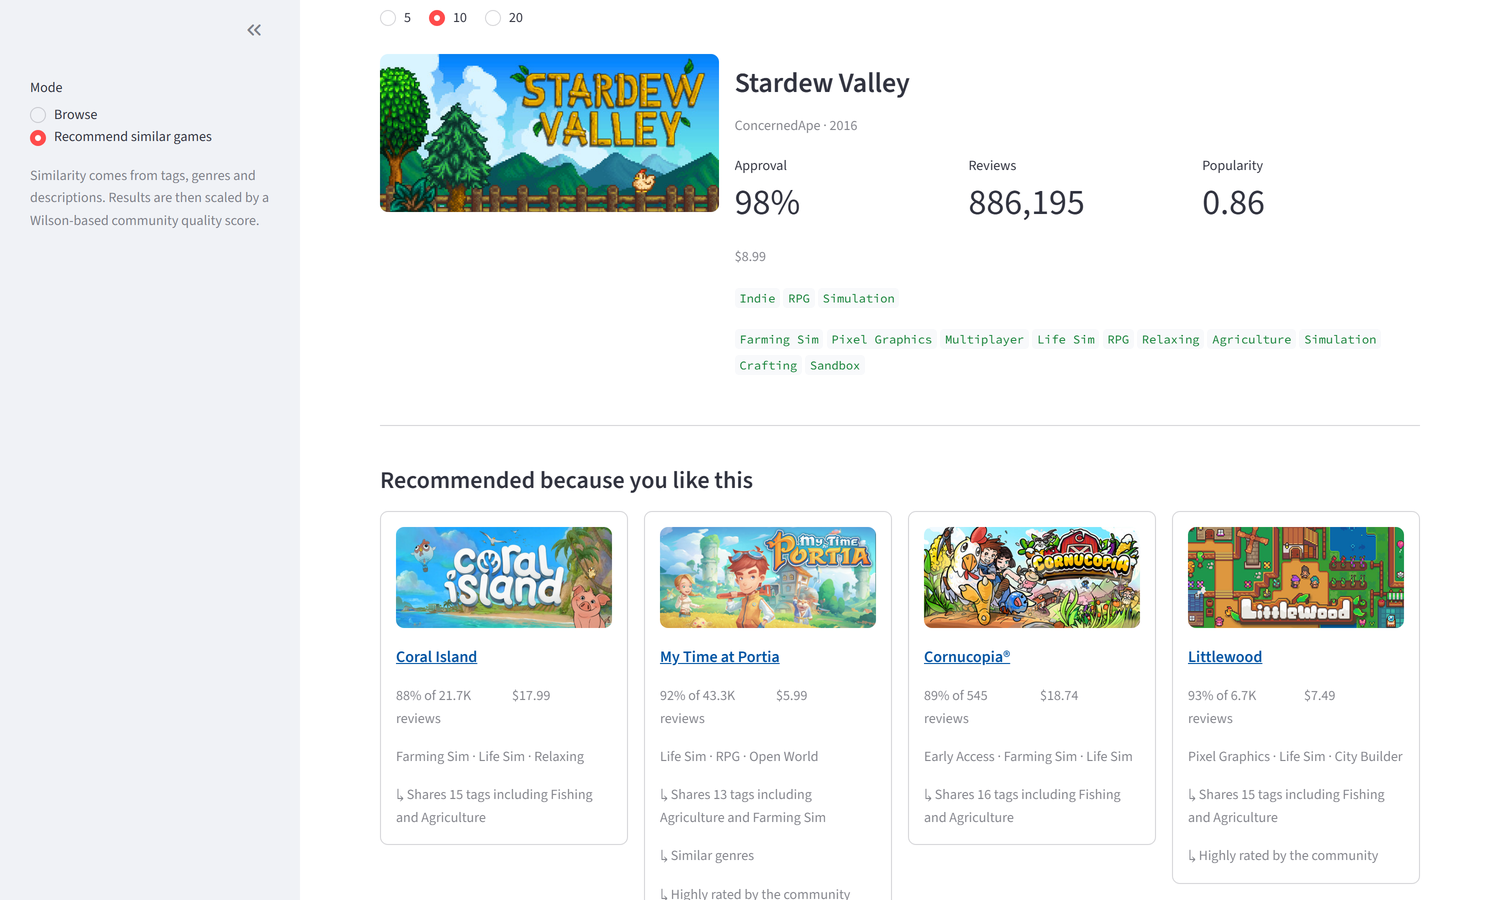
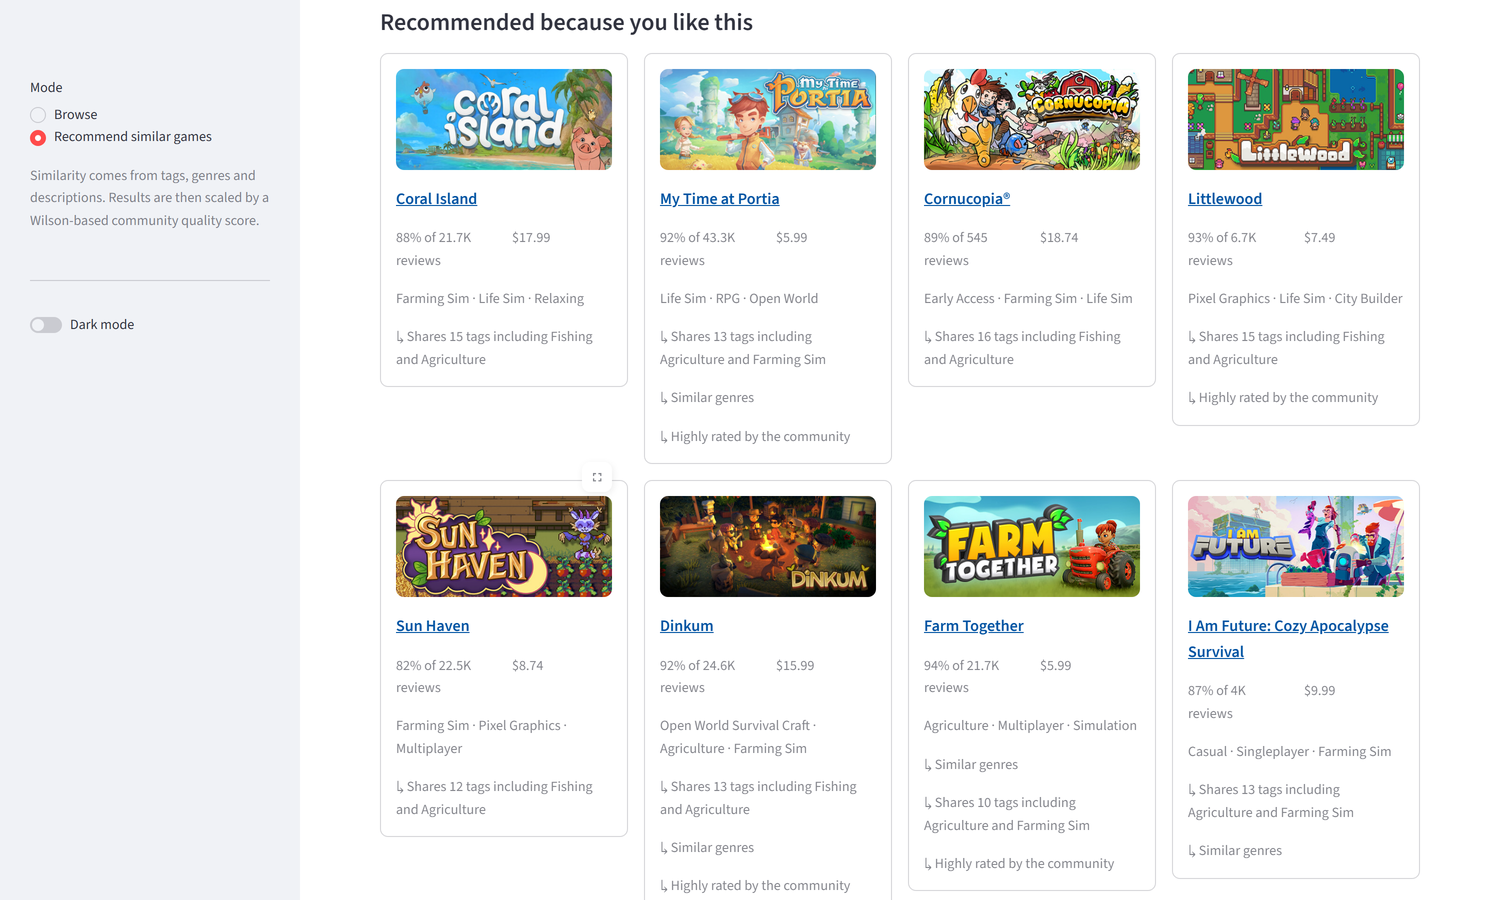
Update the screenshots

diff --git a/README.md b/README.md
@@ -53,6 +53,11 @@ with no filters and you get the best-reviewed games as a starting point.
 
 ![Recommend](docs/screenshots/recommend.png)
 
+**The recommendations** — 5, 10 or 20 games, each with a line or two saying why
+it's there.
+
+![Recommendation results](docs/screenshots/results.png)
+
 ---
 
 ## How it works
@@ -123,17 +128,26 @@ clone — nothing to download, nothing to configure.
 <details>
 <summary><b>Prefer to run it without Docker?</b></summary>
 
+Install dependencies:
+
 ```bash
 pip install -r requirements-dev.txt
-python -m recommender.build --sample    # takes a few seconds
-uvicorn api.main:app --reload           # localhost:8000
-streamlit run app/main.py               # localhost:8501
+python -m recommender.build --sample
 ```
 
-To use the full catalogue of 55,973 games, download the
-[Steam Games Dataset](https://www.kaggle.com/datasets/fronkongames/steam-games-dataset)
-to `data/raw/games.csv`, then run `python -m recommender.build`. It takes about a
-minute.
+Start the API (Terminal 1):
+
+```bash
+uvicorn api.main:app --reload
+```
+
+Start the Streamlit UI (Terminal 2):
+
+```bash
+streamlit run app/main.py
+```
+
+Open **http://localhost:8501** in your browser.
 
 </details>
 
